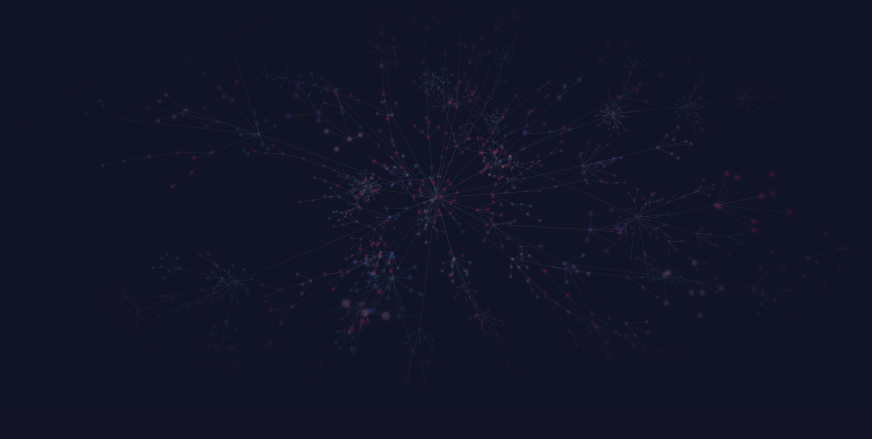
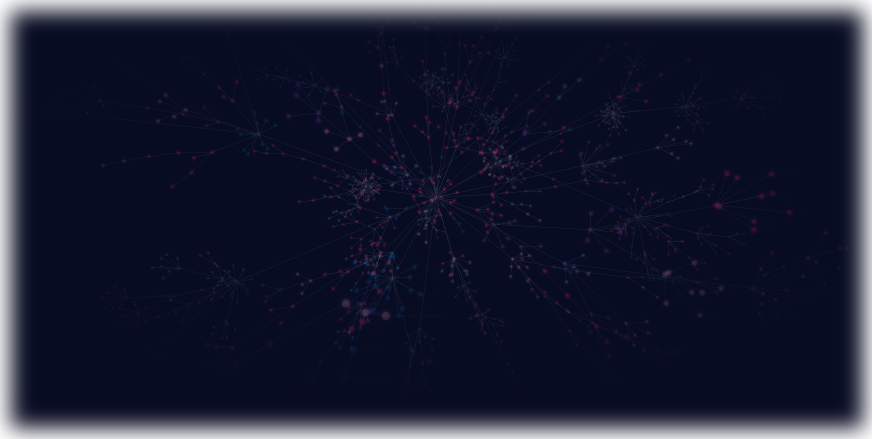
Remove header bg until we have a proper image

Changed region(s): [[0.0, 0.0, 1.0, 1.0]]

diff --git a/source/styles/theme/theme.tsx b/source/styles/theme/theme.tsx
@@ -16,6 +16,7 @@ const isIncentivisedTestnet =
   environment.CARDANO.NETWORK === CardanoNetwork.INCENTIVIZED_TESTNET;
 
 interface IGenerateThemeConfig {
+  primaryBg: string;
   primaryHighlightColor: string;
   secondaryHighlightColor: string;
 }
@@ -30,16 +31,23 @@ export const generateTheme = (config: IGenerateThemeConfig) => ({
       rgba(0, 0, 0, 0),
       rgba(0, 0, 0, 0)
     )`,
+  '--primary-bg': config.primaryBg,
   '--primary-highlight-color': config.primaryHighlightColor,
   '--secondary-highlight-color': config.secondaryHighlightColor,
 });
 
+const commonThemeProps = {
+  primaryBg: '#121326',
+};
+
 export const incentivizedTestnetTheme = generateTheme({
+  ...commonThemeProps,
   primaryHighlightColor: '#eb2256',
   secondaryHighlightColor: '#f69ab2',
 });
 
 export const mainnetTheme = generateTheme({
+  ...commonThemeProps,
   primaryHighlightColor: '#1fc1c3',
   secondaryHighlightColor: '#709cf0',
 });

diff --git a/source/pages/index.tsx b/source/pages/index.tsx
@@ -24,13 +24,13 @@ if (environment.IS_CLIENT) {
       <Head>
         <title>Byron | Index</title>
       </Head>
-      {!isMobileScreen() && (
-        <div className={styles.headerBackgroundAnimationContainer}>
-          <div className={styles.headerBackgroundAnimation}>
-            <img src="/assets/images/main-header-background.png" />
-          </div>
-        </div>
-      )}
+      {/*{!isMobileScreen() && (*/}
+      {/*  <div className={styles.headerBgContainer}>*/}
+      {/*    <div className={styles.headerBg}>*/}
+      {/*      <img src="/assets/images/main-header-background.png" />*/}
+      {/*    </div>*/}
+      {/*  </div>*/}
+      {/*)}*/}
       <Layout>
         <Header brandType={BrandType.ENLARGED} />
         <div>

diff --git a/source/widgets/layout/Header.tsx b/source/widgets/layout/Header.tsx
@@ -5,9 +5,8 @@ import React from 'react';
 import { BrandType, CardanoEra, CardanoNetwork } from '../../constants';
 import { environment } from '../../environment';
 import { SearchBar } from '../../features/search/ui/SearchBar';
+import CardanoLogo from '../../public/assets/images/header/cardano-logo.svg';
 import styles from './Header.scss';
-
-const CardanoLogo = require('../../public/assets/images/header/cardano-logo.svg');
 
 export interface IHeaderProps {
   brandType?: BrandType;

diff --git a/source/pages/index.scss b/source/pages/index.scss
@@ -1,4 +1,4 @@
-.headerBackgroundAnimationContainer {
+.headerBgContainer {
   display: flex;
   justify-content: center;
   left: 0;
@@ -6,14 +6,13 @@
   top: 0;
   width: 100%;
 
-  .headerBackgroundAnimation {
-    height: 415px;
-    width: 1099px;
+  .headerBg {
     display: flex;
     flex-direction: column;
     align-items: center;
+    position: relative;
     img {
-      height: 100%;
+      height: 415px;
       margin-top: -25px;
       margin-left: 11px;
     }
